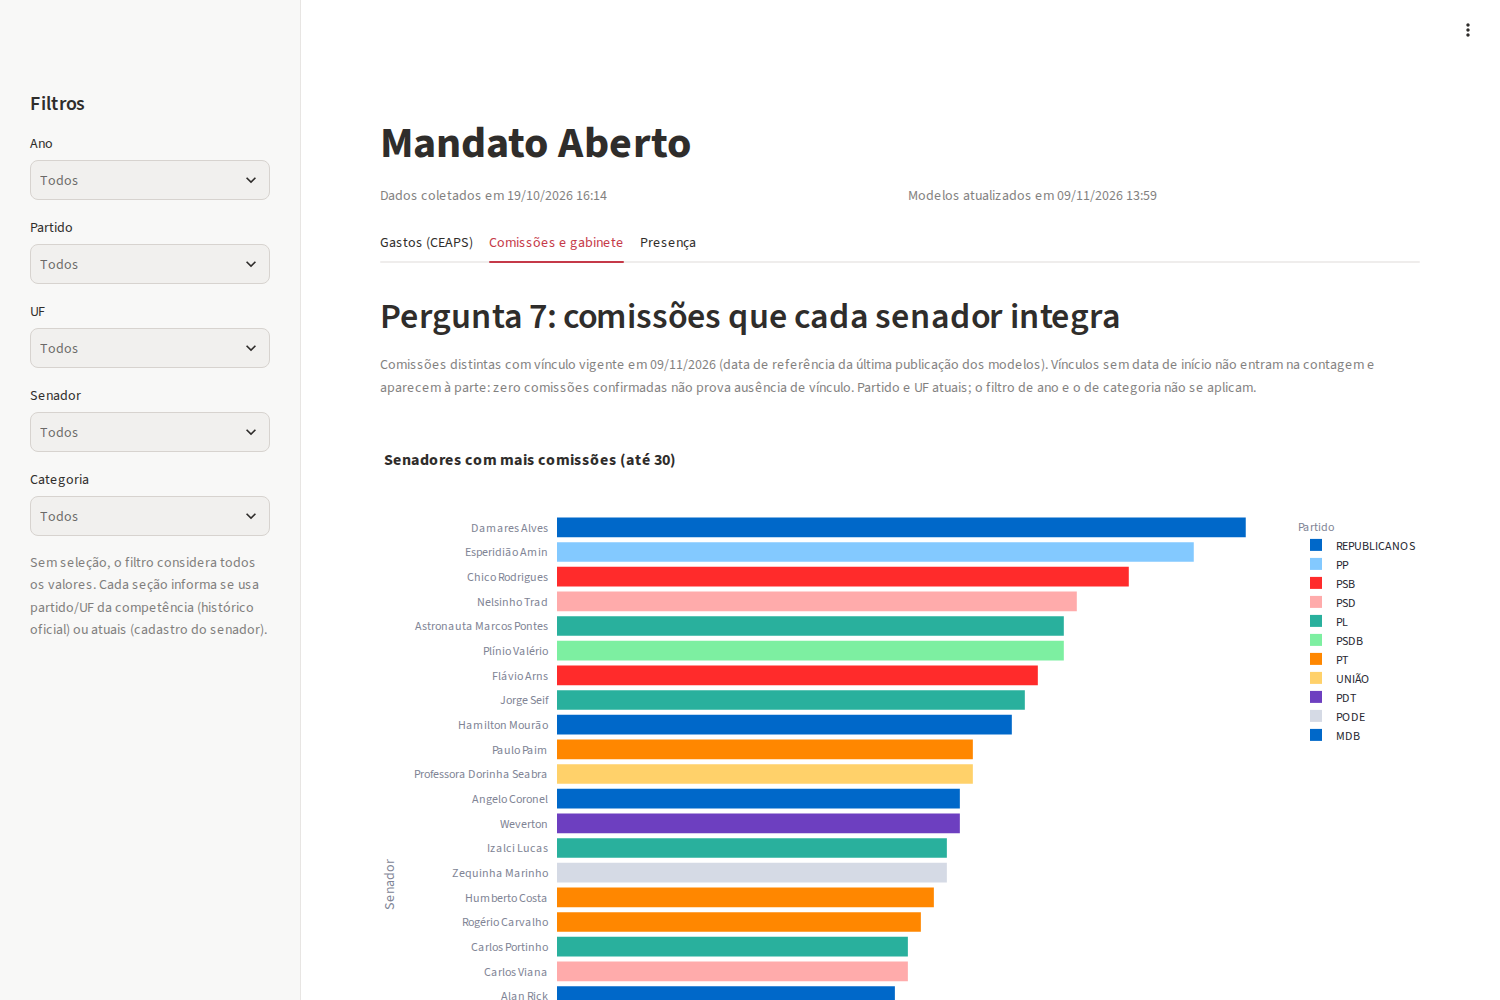
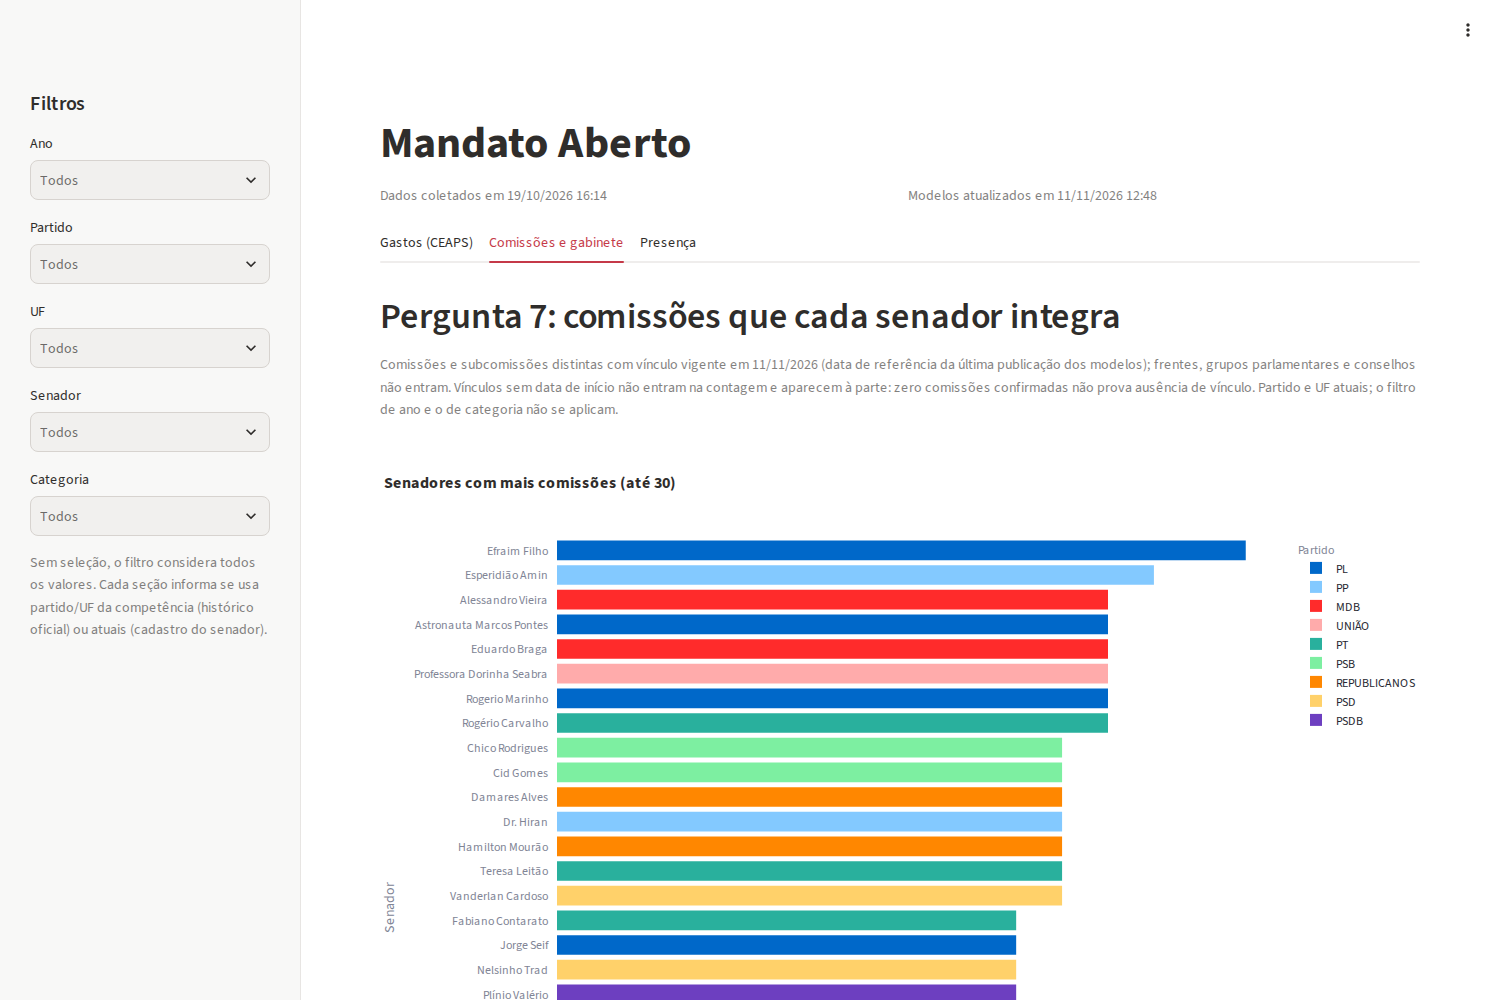
docs(painel): explica o recorte de comissões na pergunta 7 e atualiza a tela

Changed region(s): [[0.2453, 0.341, 0.9507, 1.0], [0.8587, 0.527, 0.9507, 0.744], [0.2453, 0.868, 0.276, 0.93]]

diff --git a/painel/app.py b/painel/app.py
@@ -204,9 +204,10 @@ def secao_pergunta_7(filtros):
         return
     referencias = ", ".join(sorted({pd.Timestamp(d).strftime("%d/%m/%Y") for d in df["data_referencia"]}))
     st.caption(
-        f"Comissões distintas com vínculo vigente em {referencias} (data de referência da última publicação "
-        "dos modelos). Vínculos sem data de início não entram na contagem e aparecem à parte: zero comissões "
-        "confirmadas não prova ausência de vínculo. Partido e UF atuais; o filtro de ano e o de categoria "
+        f"Comissões e subcomissões distintas com vínculo vigente em {referencias} (data de referência da última "
+        "publicação dos modelos); frentes, grupos parlamentares e conselhos não entram. Vínculos sem data de "
+        "início não entram na contagem e aparecem à parte: zero comissões confirmadas não prova ausência de "
+        "vínculo. Partido e UF atuais; o filtro de ano e o de categoria "
         "não se aplicam."
     )
     barras_horizontais(
